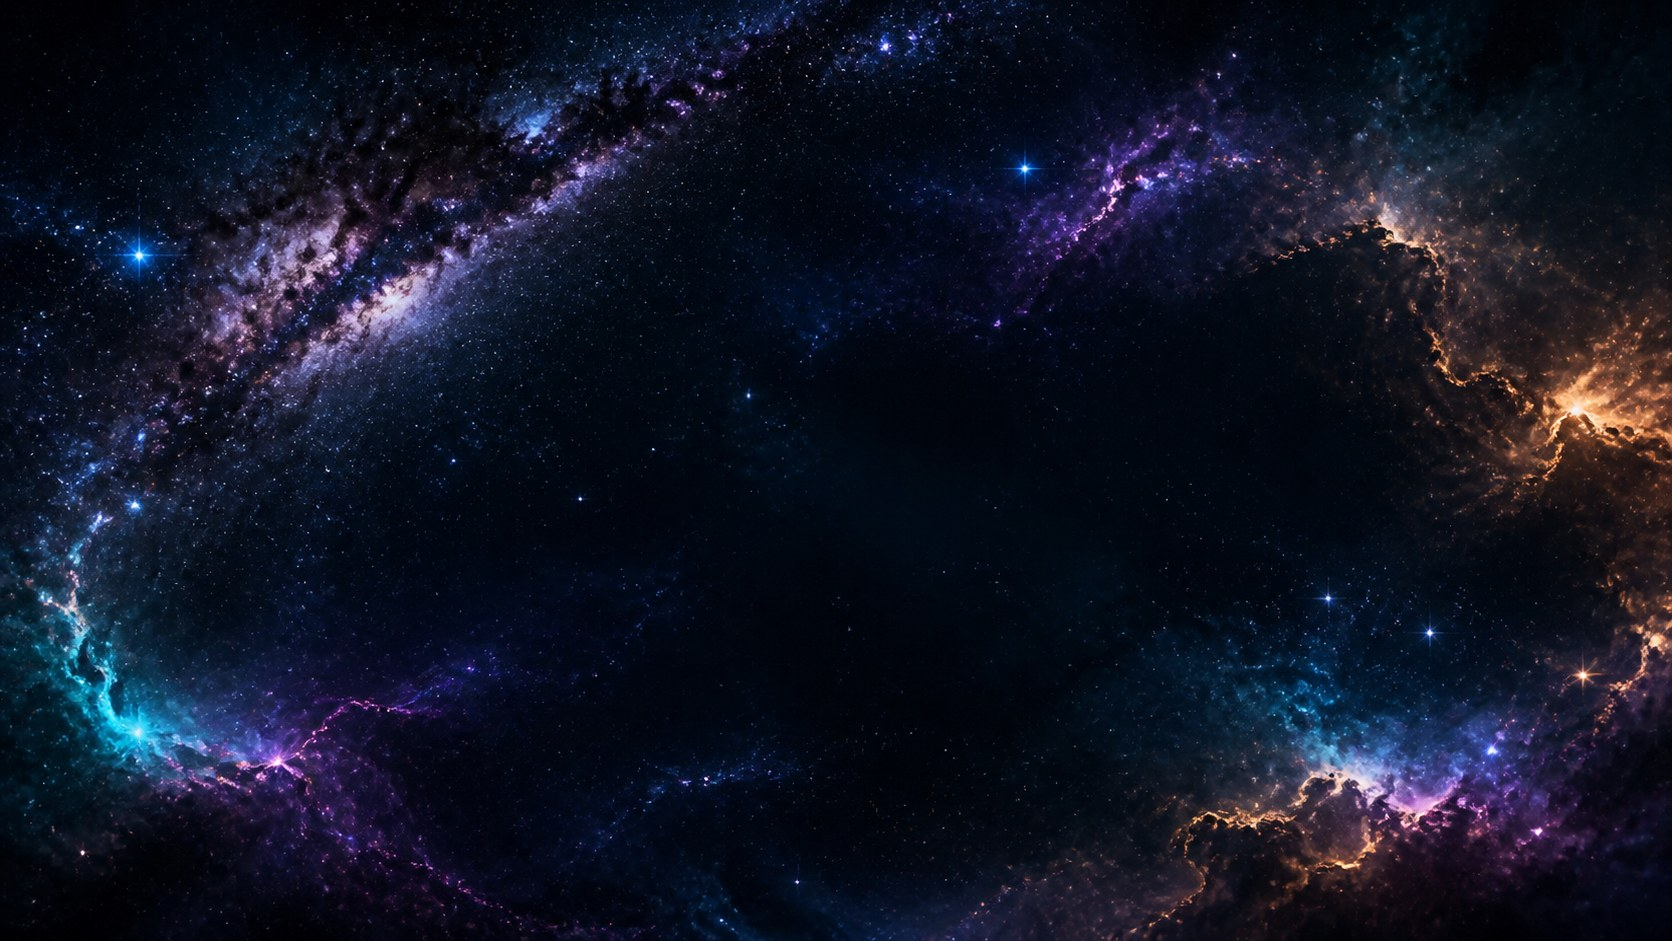
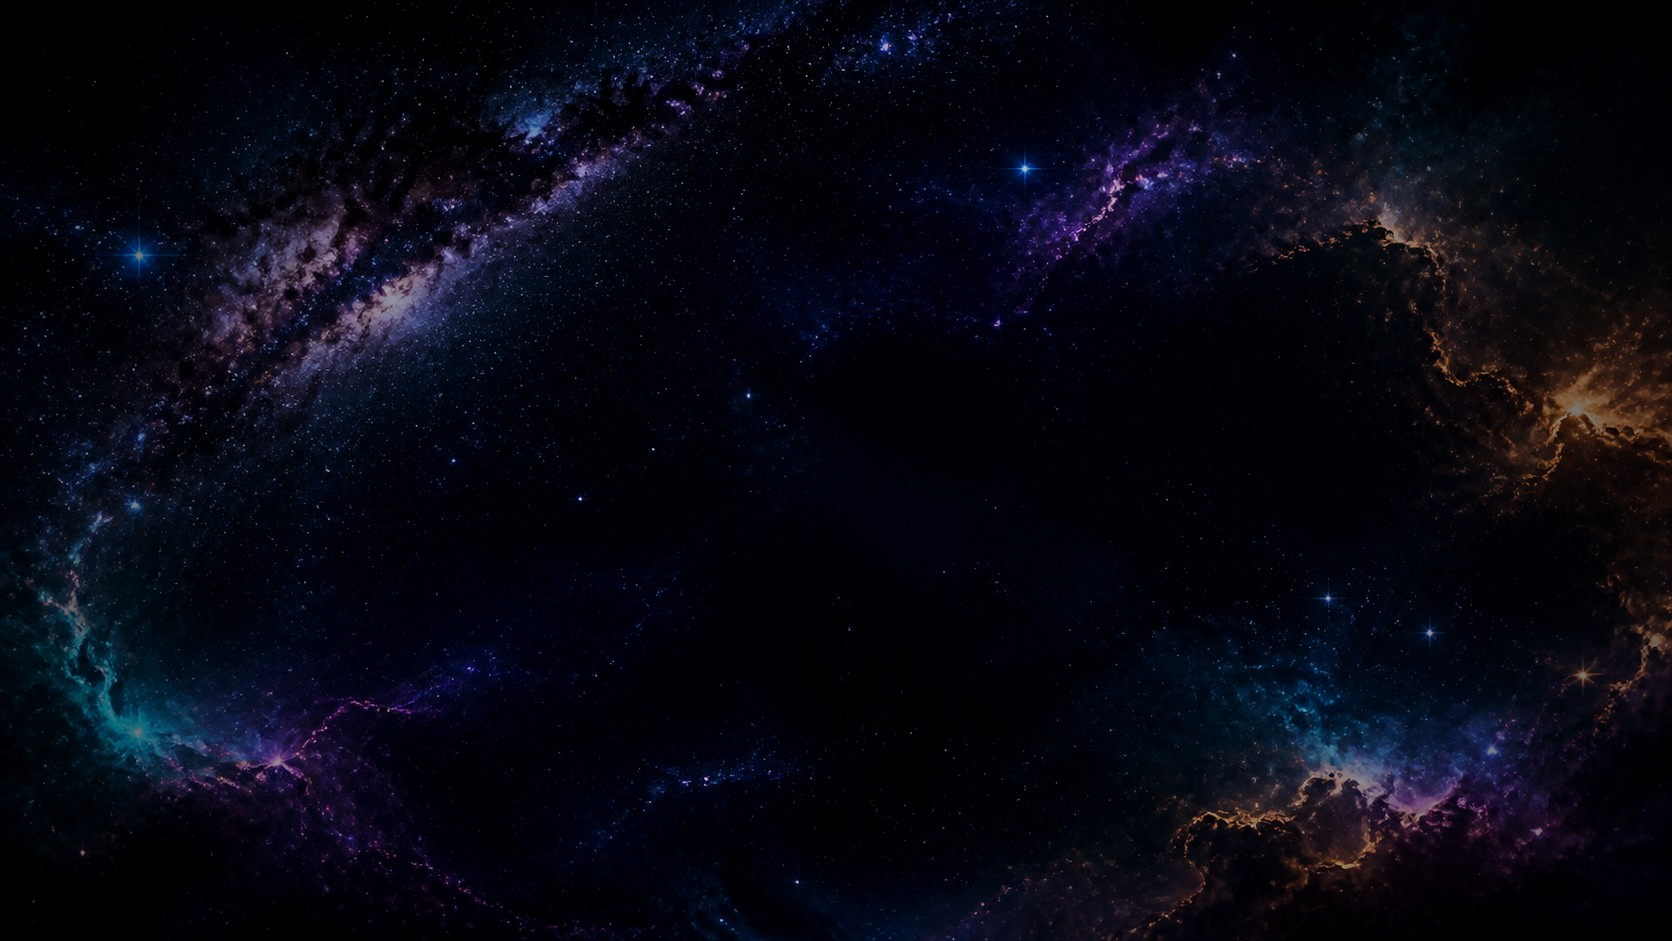
Remove fog from galaxy background
The generated backdrop looked washed out once layered under the Canvas. This darkens and sharpens the raster asset, removes the Canvas fill veil entirely, and leaves only a subtle CSS vignette so the galaxy remains visible without a foggy cast.

Constraint: Keep the generated raster asset as the single galaxy background source.

Rejected: Add more overlay gradients | they were the source of the hazy look.

Confidence: high

Scope-risk: narrow

Tested: npm run typecheck

Tested: npm run build

Tested: git diff --check

Tested: Viewed the processed galaxy-background.jpg locally.

Not-tested: Manual Obsidian reload visual inspection.

diff --git a/src/ui/GalaxyGraphView.ts b/src/ui/GalaxyGraphView.ts
@@ -434,10 +434,8 @@ export class GalaxyGraphView extends ItemView {
 
   private drawBackground(ctx: CanvasRenderingContext2D): void {
     ctx.clearRect(0, 0, this.width, this.height);
-    ctx.fillStyle = 'rgba(2, 6, 23, 0.08)';
-    ctx.fillRect(0, 0, this.width, this.height);
     ctx.save();
-    ctx.globalAlpha = 0.34;
+    ctx.globalAlpha = 0.46;
     for (let i = 0; i < 120; i += 1) {
       const x = ((i * 137.5) % this.width);
       const y = ((i * 71.3) % this.height);

diff --git a/styles.css b/styles.css
@@ -3913,7 +3913,7 @@ code .oc-file-link:hover {
   min-height: 420px;
   overflow: hidden;
   background:
-    linear-gradient(180deg, rgba(2, 6, 23, 0.04), rgba(2, 6, 23, 0.22)),
+    radial-gradient(circle at 50% 52%, rgba(0, 0, 0, 0), rgba(0, 0, 0, 0.22) 52%, rgba(0, 0, 0, 0.52) 100%),
     url("assets/galaxy-background.jpg") center / cover no-repeat,
     #020617;
   color: #e5f8ff;

diff --git a/src/style/features/galaxy-graph.css b/src/style/features/galaxy-graph.css
@@ -5,7 +5,7 @@
   min-height: 420px;
   overflow: hidden;
   background:
-    linear-gradient(180deg, rgba(2, 6, 23, 0.04), rgba(2, 6, 23, 0.22)),
+    radial-gradient(circle at 50% 52%, rgba(0, 0, 0, 0), rgba(0, 0, 0, 0.22) 52%, rgba(0, 0, 0, 0.52) 100%),
     url("assets/galaxy-background.jpg") center / cover no-repeat,
     #020617;
   color: #e5f8ff;
